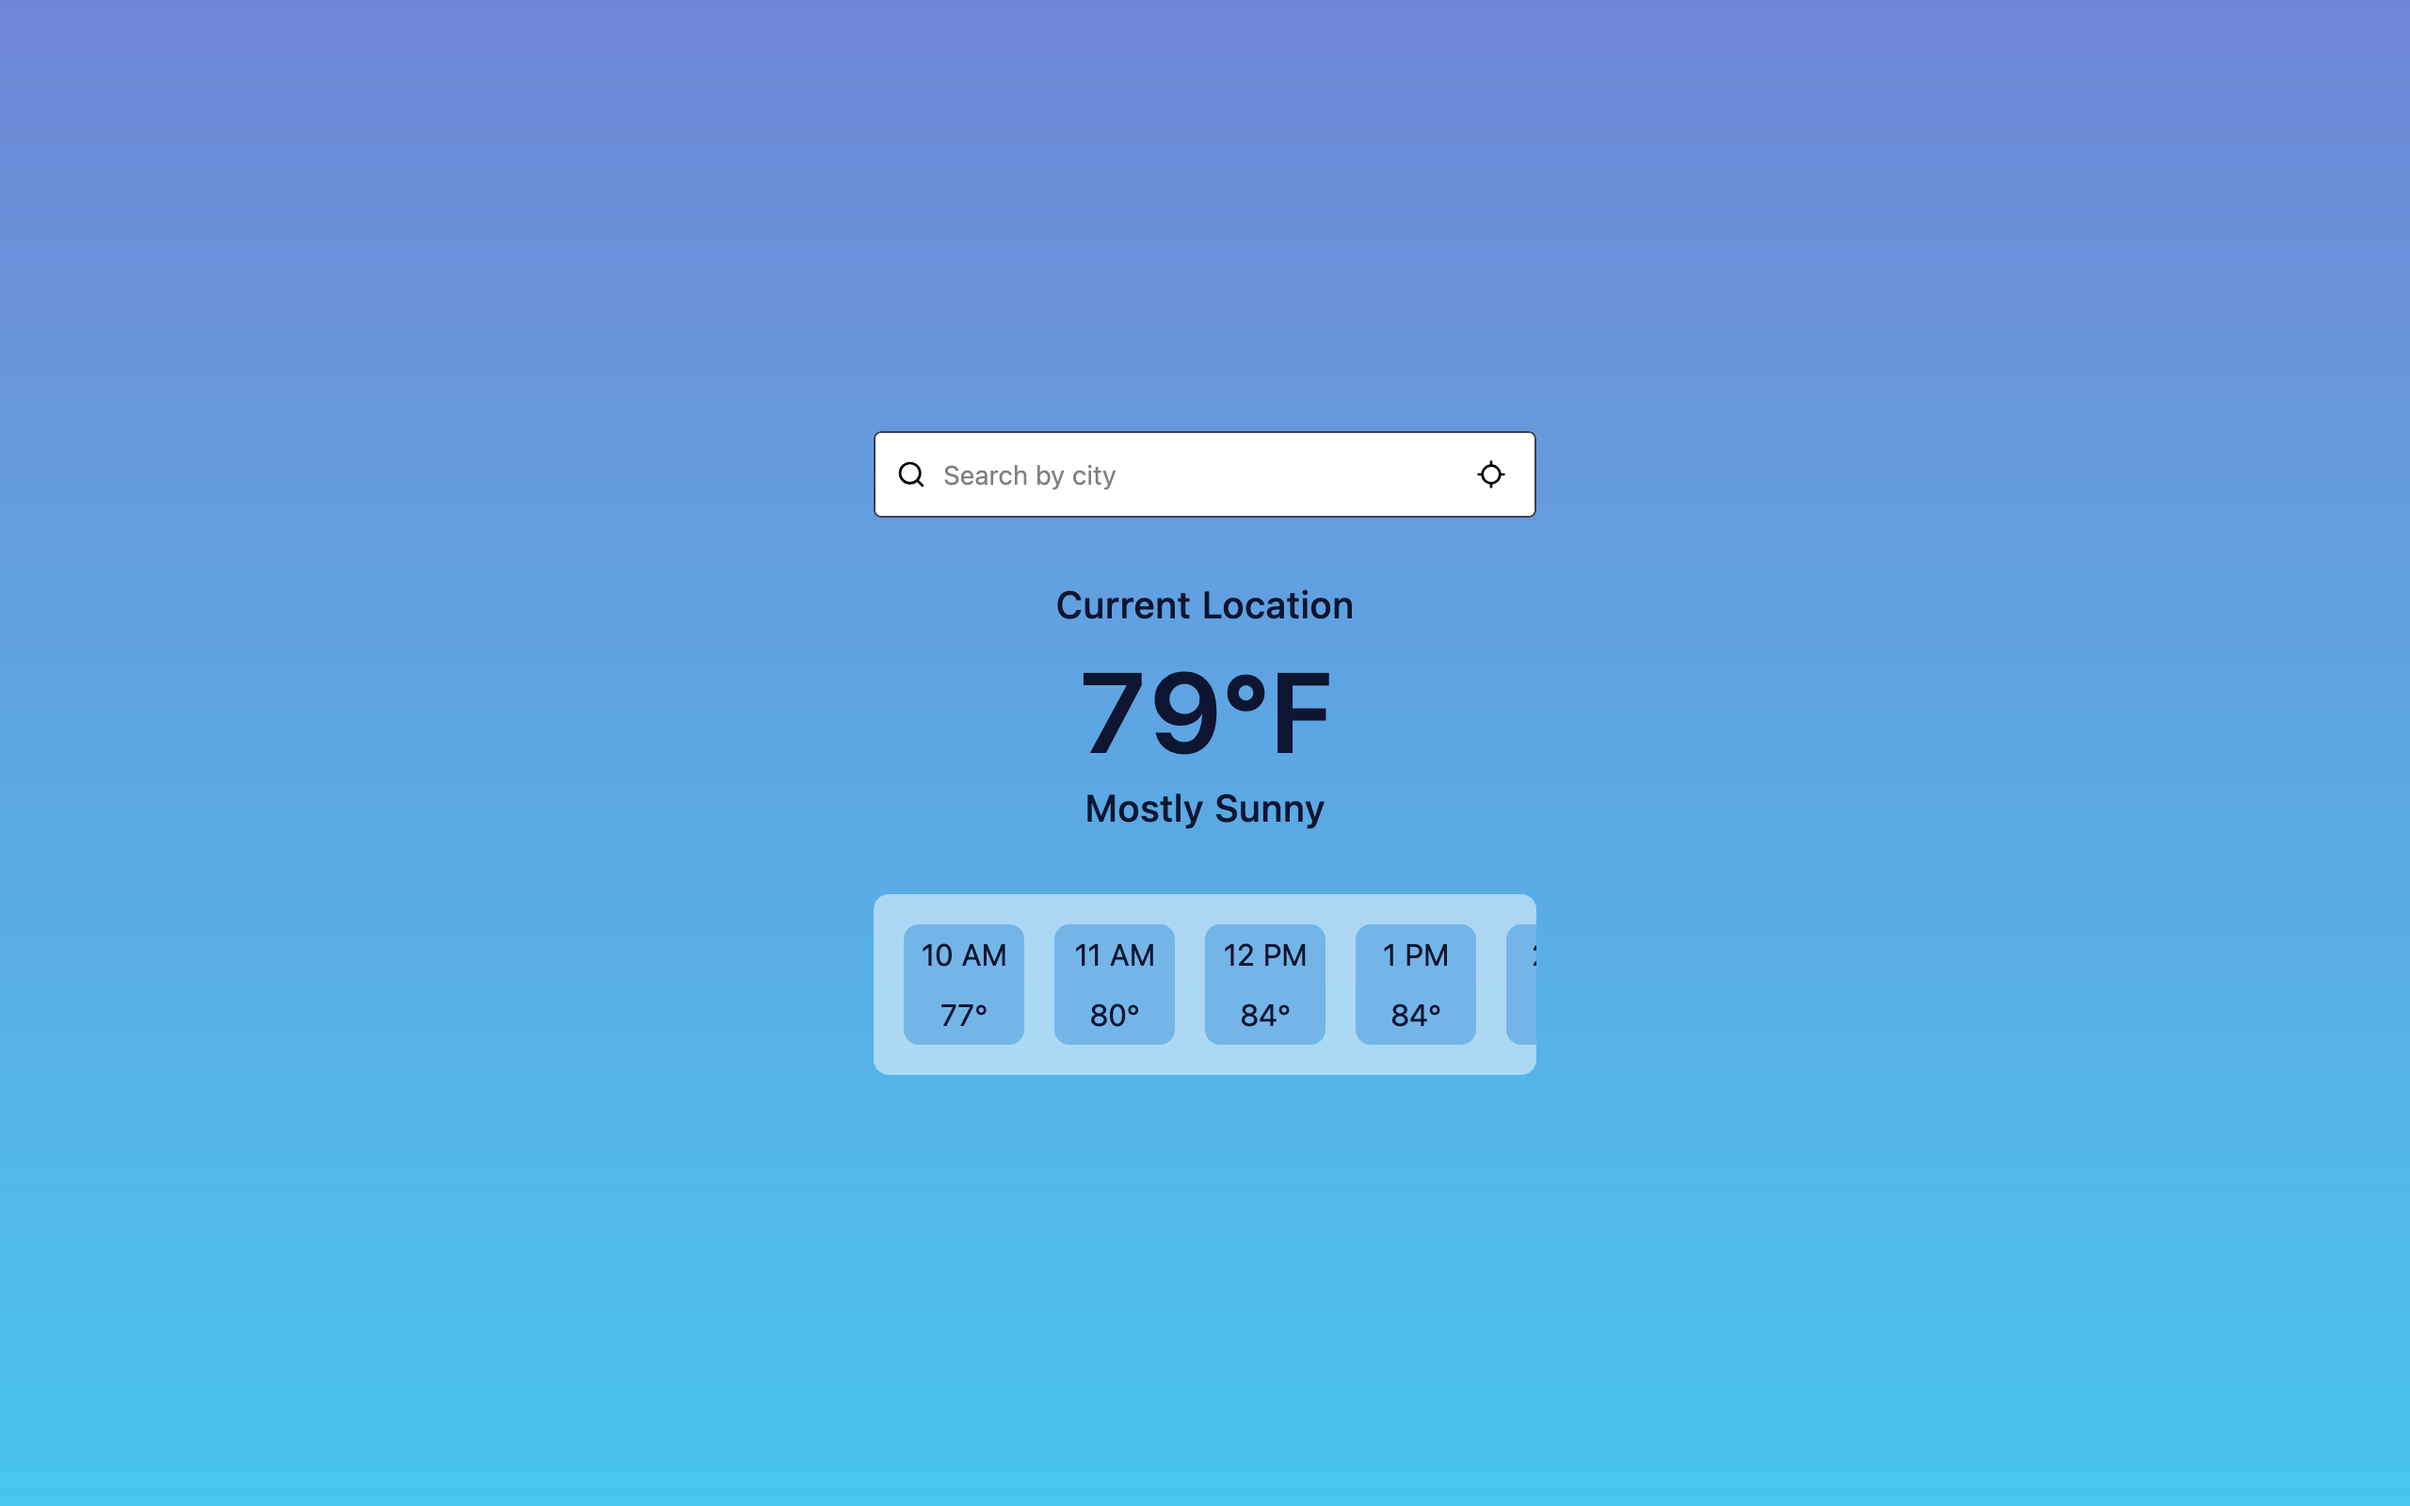
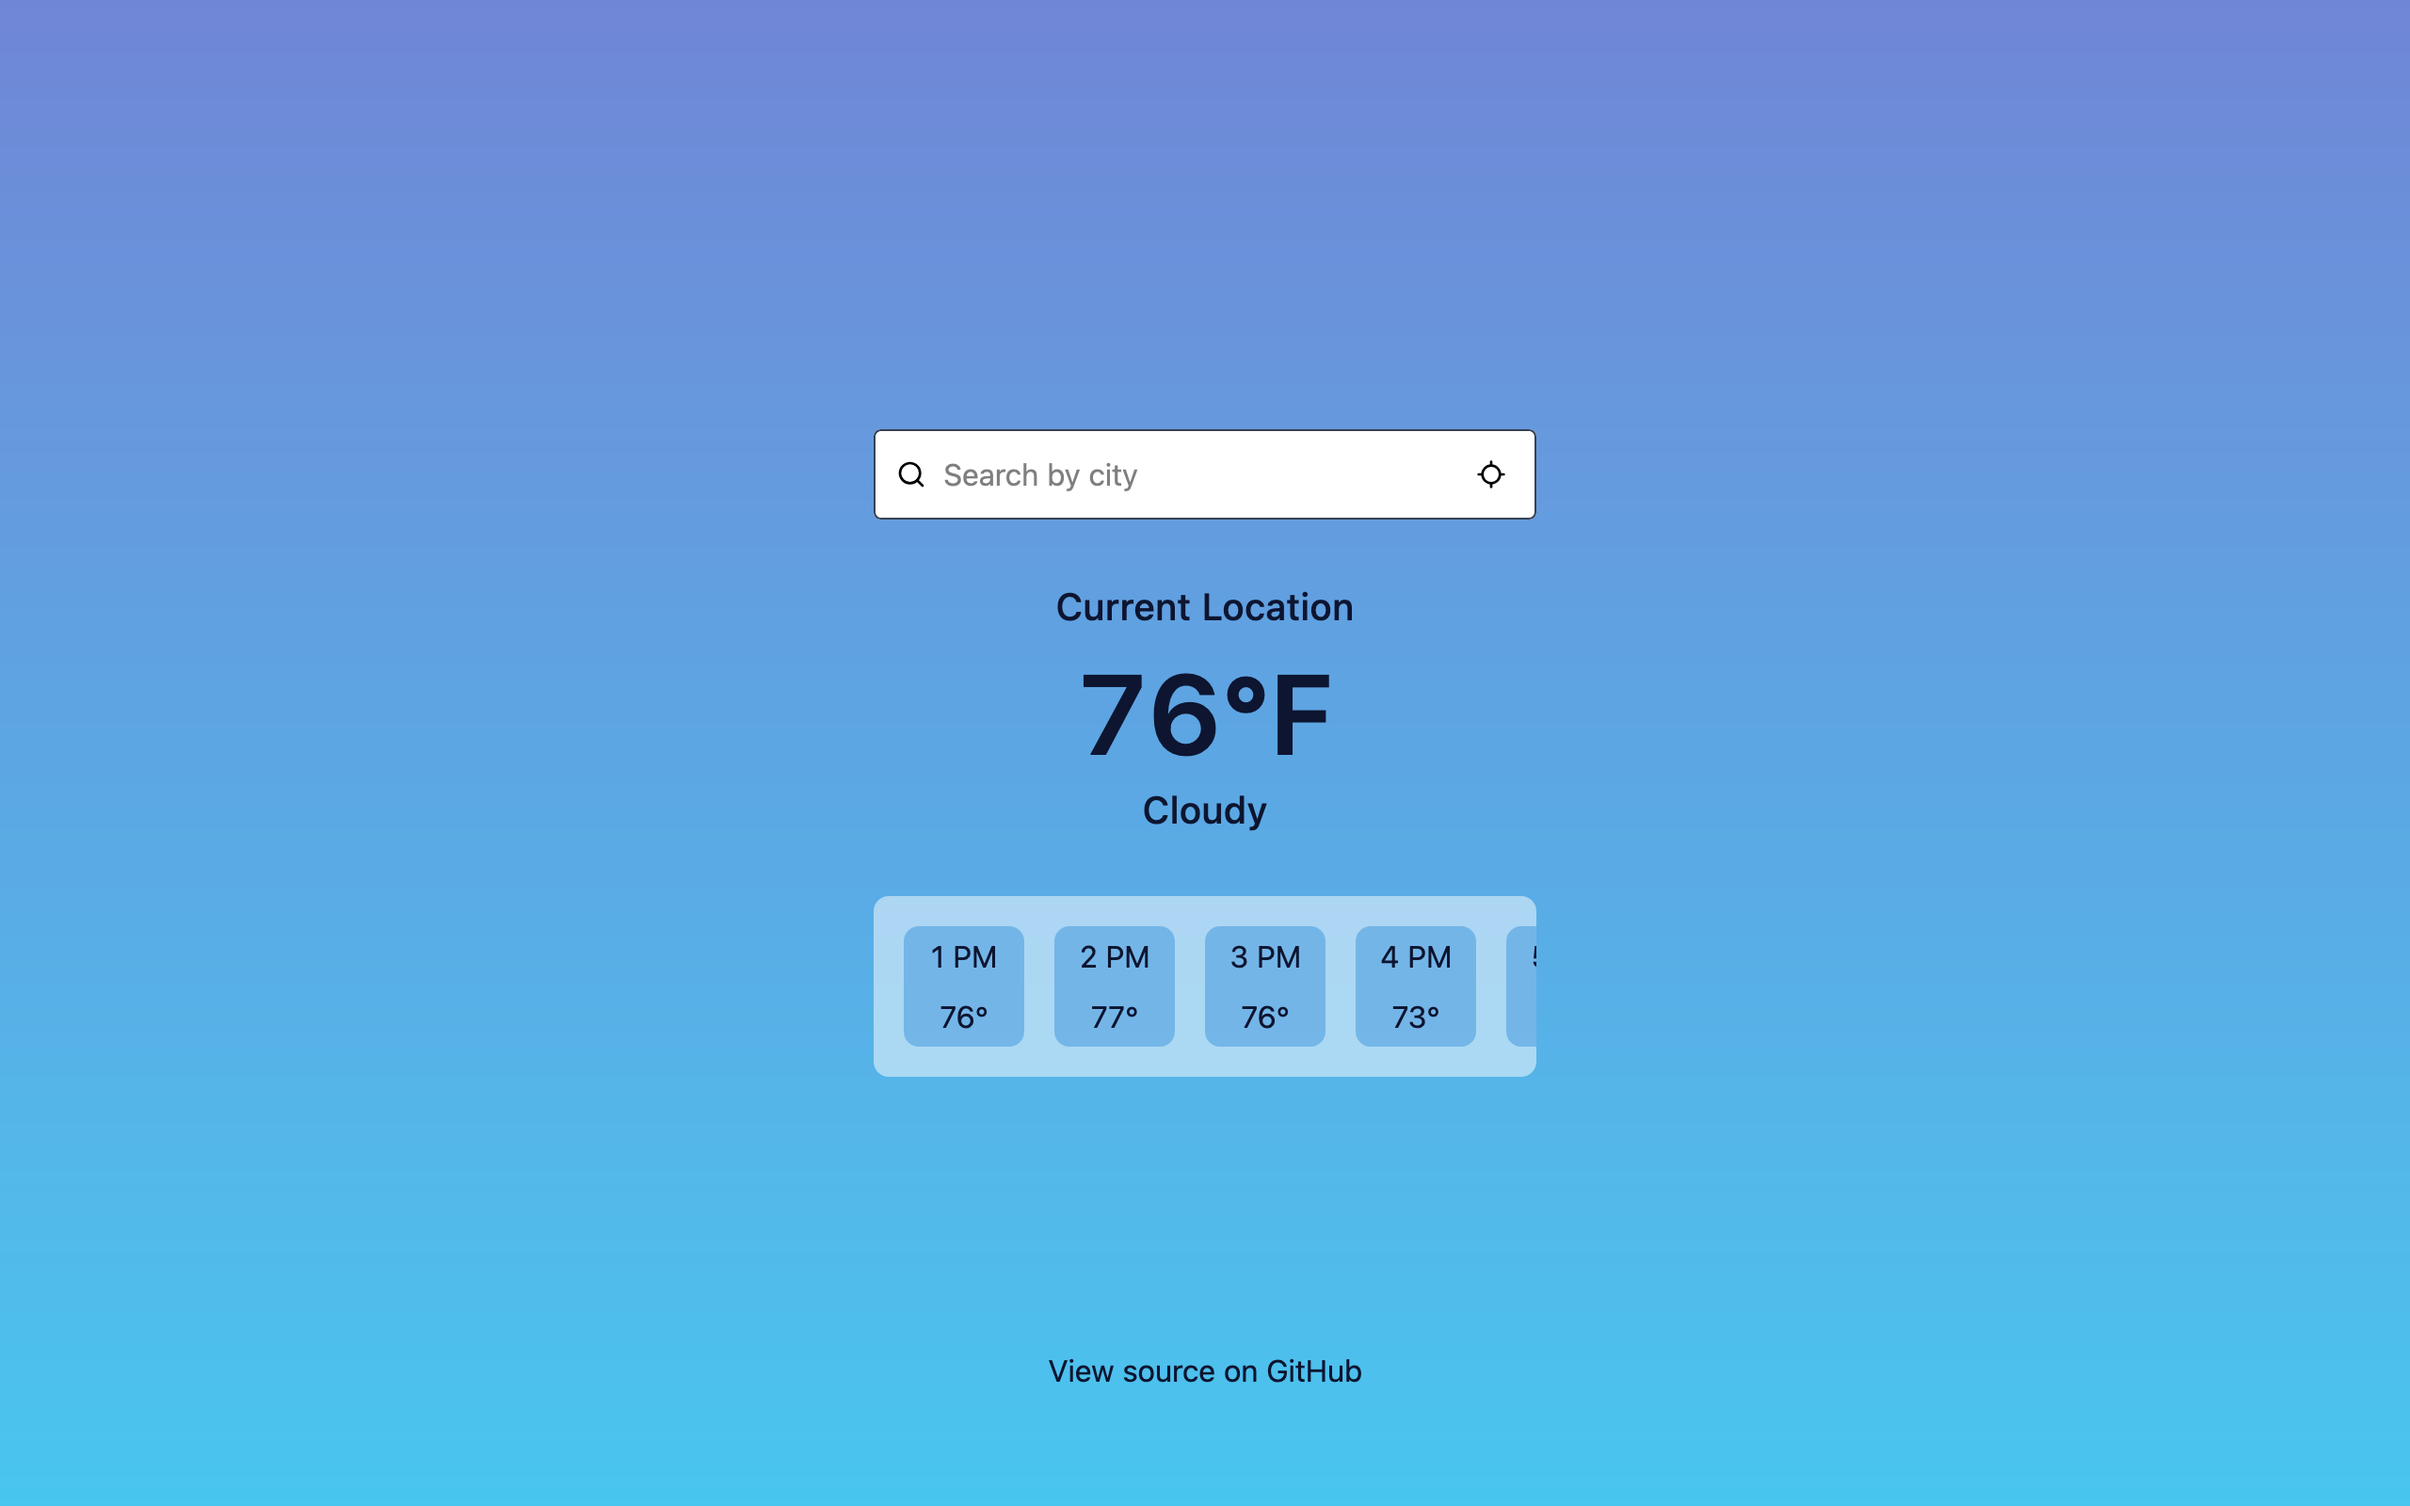
add GitHub repo link and rework page layout

diff --git a/src/App.tsx b/src/App.tsx
@@ -1,10 +1,13 @@
 import { useState } from "react";
+import { IoLogoGithub } from "react-icons/io5";
 import { useGeolocation } from "@/hooks/useGeolocation.ts";
 import type { WeatherLocation } from "@/components/SearchBar.tsx";
 import { useWeather } from "@/hooks/useWeather.ts";
 import SearchBar from "@/components/SearchBar.tsx";
 import LocationView from "@/components/LocationView.tsx";
 import WeatherView from "@/components/WeatherView.tsx";
+
+const GITHUB_URL = "https://github.com/leslieledeboer/weather-app";
 
 export default function App() {
   const [selectedLocation, setSelectedLocation] = useState<WeatherLocation | null>(null);
@@ -27,11 +30,25 @@ export default function App() {
   };
 
   return (
-    <div className="flex justify-center items-center min-h-dvh bg-linear-to-b from-sky-top via-sky-middle to-sky-bottom">
-      <div className="flex flex-col gap-4 w-full min-h-95 max-w-sm mx-auto p-4">
+    <div className="flex flex-col min-h-dvh px-4 bg-linear-to-b from-sky-top via-sky-middle to-sky-bottom">
+      <div className="flex justify-end items-center h-36 pb-18">
+        <a className="block sm:hidden p-2 rounded-xl text-ink bg-white/30 hover:bg-white/40 backdrop-blur-md" href={GITHUB_URL} target="_blank" rel="noopener noreferrer" aria-label="View source on GitHub">
+          <IoLogoGithub size={24} />
+        </a>
+      </div>
+
+      <div className="grow flex flex-col justify-center gap-4 w-full max-w-88 mx-auto">
         <SearchBar onSelectLocation={handleSelectLocation} onDetectLocation={handleDetectLocation} />
 
-        {coordinates ? <WeatherView weather={weather} selectedLocation={selectedLocation} /> : <LocationView geolocation={geolocation} />}
+        <div className="flex flex-col gap-4 min-h-70">
+          {coordinates ? <WeatherView weather={weather} selectedLocation={selectedLocation} /> : <LocationView geolocation={geolocation} />}
+        </div>
+      </div>
+
+      <div className="flex justify-center items-center h-36">
+        <a className="hidden sm:block text-ink hover:underline" href={GITHUB_URL} target="_blank" rel="noopener noreferrer">
+          View source on GitHub
+        </a>
       </div>
     </div>
   );

diff --git a/src/components/SearchBar.tsx b/src/components/SearchBar.tsx
@@ -121,7 +121,7 @@ export default function SearchBar({ onSelectLocation, onDetectLocation }: Search
 
           <input
             id="search"
-            className="w-full py-3 ps-9 pe-9 border border-gray-700 rounded text-base bg-white"
+            className="w-full h-12 ps-9 pe-9 border border-gray-700 rounded text-base bg-white"
             type="search"
             name="q"
             value={query}
